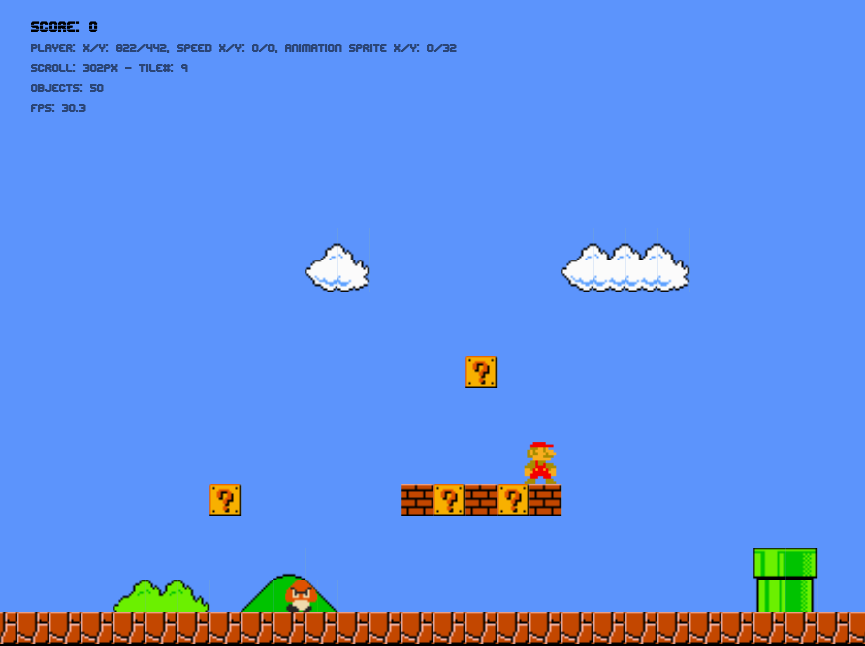
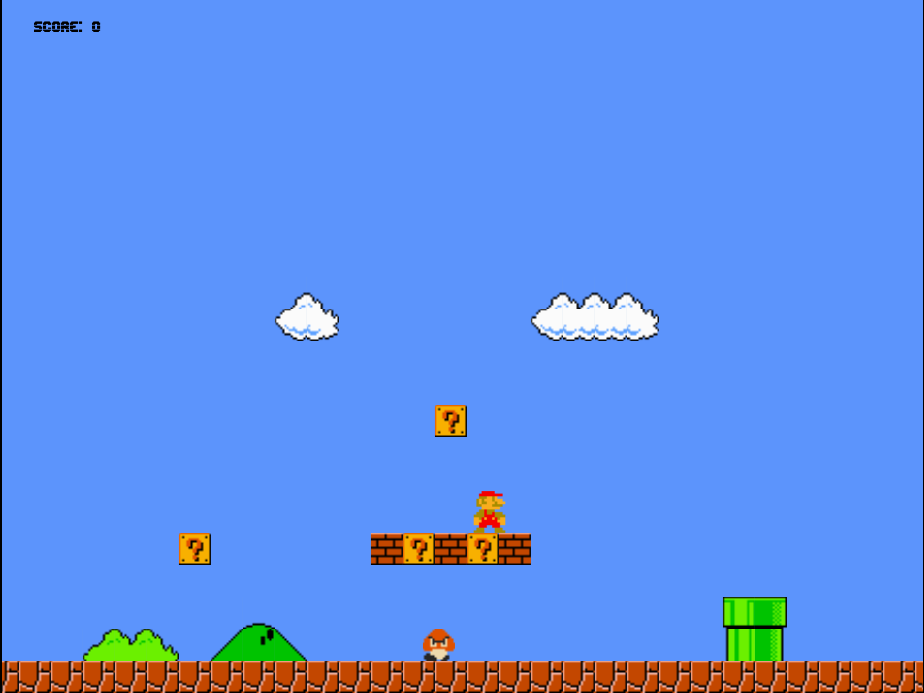
prepare release

diff --git a/js/levels.js b/js/levels.js
@@ -28,9 +28,9 @@ var levels = [
             "  123                 µµµµµµ     zzzzzzzz    zzzzzz    zzzzz      µµµµ                                         ",
             "  456       cc                                                              µµµµ                               ",
             "           zzzzzzz                  zzzz z  z zzzz zzzz                                                        ",
-            "                                    z    z  z z    z                                 8888                      ",
+            "                                    z    z  z z    z                                zzzz                      ",
             "  zzzzz                             zzzz z  z zzzz zz?                                                         ",
-            "                      zzz??z           z z  z    z z                           888                             ",
+            "                      zzz??z           z z  z    z z                           zzz                             ",
             "         zzz?z                      ?zzz zzzz z?zz zzzz                                                        ",
             "                                                                         zzz                                   ",
             "                 p            p                 p p p                                                          ",

diff --git a/index.html b/index.html
@@ -7,7 +7,7 @@
     <meta name="apple-mobile-web-app-capable" content="yes"/>
     <meta name="viewport" content="user-scalable=no, width=device-width, initial-scale=1.0, maximum-scale=1.0"/>
 
-    <title>Geeko Challenge</title>
+    <title>Geeko Run</title>
 
     <link href="css/game.css" rel="stylesheet" type="text/css">
     <link href="css/pad-controls.css" rel="stylesheet" type="text/css">
@@ -23,7 +23,7 @@
     <div id="game-menu" class="game-info">
 
         <div class="menu-item menu-text" id="intro">
-            <p>Welcome to the Geeko challenge!</p>
+            <p>Welcome to the Geeko run!</p>
         </div>
 
         <div class="menu-item menu-link" id="button-play3">
@@ -73,10 +73,10 @@
 <script type="text/javascript" src="js/sounds.js" charset="utf-8"></script>
 
 
-<!-- <a href="https://github.com/digitaltom/hackweek">
+<a href="https://github.com/digitaltom/jump-run">
     <img style="position: absolute; top: 0; right: 0; border: 0;"
          src="https://s3.amazonaws.com/github/ribbons/forkme_right_darkblue_121621.png"
-         alt="Fork me on GitHub"></a> -->
+         alt="Fork me on GitHub"></a>
 
 </body>
 </html>

diff --git a/js/game.js b/js/game.js
@@ -3,10 +3,10 @@ var ticks = 0;
 var spriteMap = new Image;
 var actors;
 var items;
-var debug = true;
+var debug = false;
 
 // default theme and level
-var theme = 'snoop'
+var theme = 'suse'
 var current_level = levels[1];
 
 var gameInterval;

diff --git a/README.md b/README.md
@@ -6,16 +6,21 @@ Features:
 - Compatible with all HTML5 browsers,
   tested with: Firefox 15+, Chrome
 - No dependencies
-- Easy level creation with textfiles
+- Easy level creation from textfiles
 - Supports different themes
 - Soundeffects
 
 
 - Tablet + Mobile support:
   - Touchscreen controls
-  - responds to changing screen dimensions (rotate)
-  - Supports different screen dimensions (Tablet, phone ...)
+  - Automatically fit to screen dimensions (also on rotate)
 
 
 Have Fun!
 Tom (tom@digitalflow.de)
+
+
+Credits:
+- Geeko inspired by work from S.Kemter
+- Sounds from freesound.org
+- Sprites from opengameart.org
